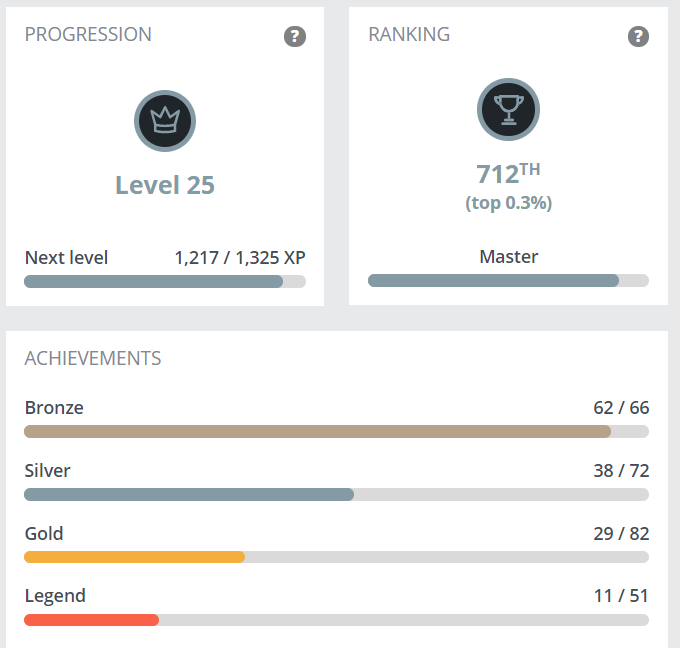
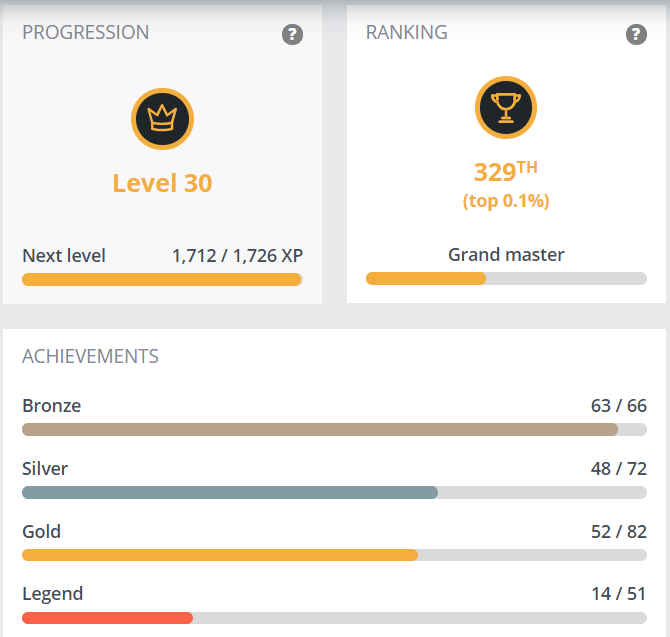
Update Codingame

diff --git a/README.md b/README.md
@@ -13,7 +13,7 @@ A repository containing only links to my other repo, associated with gif, images
 
 [My CodinGame profile](https://www.codingame.com/profile/b944cb66159c494961db183c595578915353933)
 
-### Ranking 18/10/2020:
+### Ranking 27/05/2021:
 
 <table>
   <tr>
@@ -23,32 +23,33 @@ A repository containing only links to my other repo, associated with gif, images
   <tr>
     <td rowspan="6"><img height="256" alt="codinGame" src="data/images/codinGame.png"></td>
     <td>Global</td>
-    <td colspan="2">Top 0.3%</td>
+    <td>Top 0.1%</td>
+    <td>329 / 377'986</td>
   </tr>
   <tr>
     <td>Contests</td>
-    <td>Top 2%</td>
-    <td>457 / 35'968</td>
+    <td>Top 0.6%</td>
+    <td>230 / 42'690</td>
   </tr>
   <tr>
     <td>Bot programming</td>
-    <td>Top 2%</td>
-    <td>2'419 / 127'944</td>
+    <td>Top 0.5%</td>
+    <td>694 / 151'763</td>
   </tr>
   <tr>
     <td>Clash of Code</td>
     <td>Top 0.1%</td>
-    <td>26 / 192'389</td>
+    <td>56 / 254'133</td>
   </tr>
   <tr>
     <td>Optimization</td>
-    <td>Top 3%</td>
-    <td>490 / 19'980</td>
+    <td>Top 2%</td>
+    <td>380 / 23'678</td>
   </tr>
   <tr>
     <td>Code golf</td>
-    <td>Top 0.8%</td>
-    <td>214 / 28'362</td>
+    <td>Top 0.5%</td>
+    <td>153 / 32'895</td>
   </tr>
 </table>
 
@@ -56,10 +57,6 @@ A repository containing only links to my other repo, associated with gif, images
 Codingame's certification |
 :---: |
 ![codingame_certif](data/images/codinGame_Certif.png) |
-
-Practiced skills |
-:---: |
-![codingame_skills](data/images/codinGame_Skills.png) |
 
 
 ## Certifications
